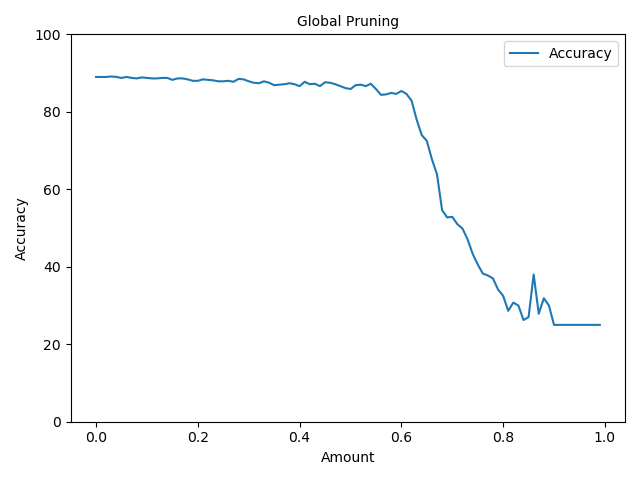
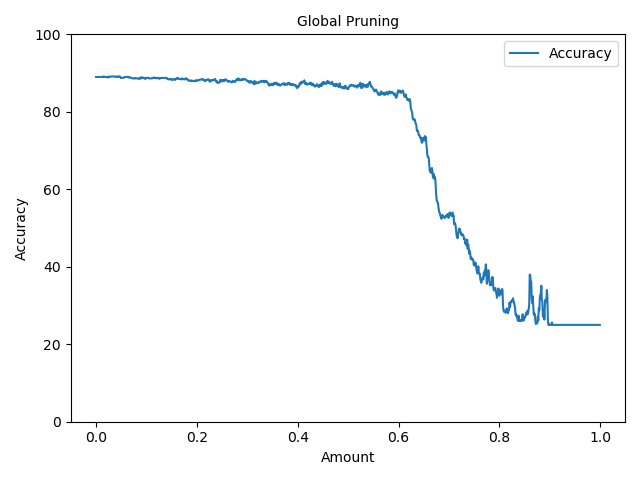
TP3_task1

diff --git a/TP3_task1.py b/TP3_task1.py
@@ -124,7 +124,7 @@ def test(epoch):
 
 fig1 = plt.figure()
 
-amount_list = np.arange(0.0, 0.11, 0.1)
+amount_list = np.arange(0.0, 1.0, 0.001)
 for amount in amount_list:
     parameters_to_prune = []
     model_pruned = copy.deepcopy(model)
